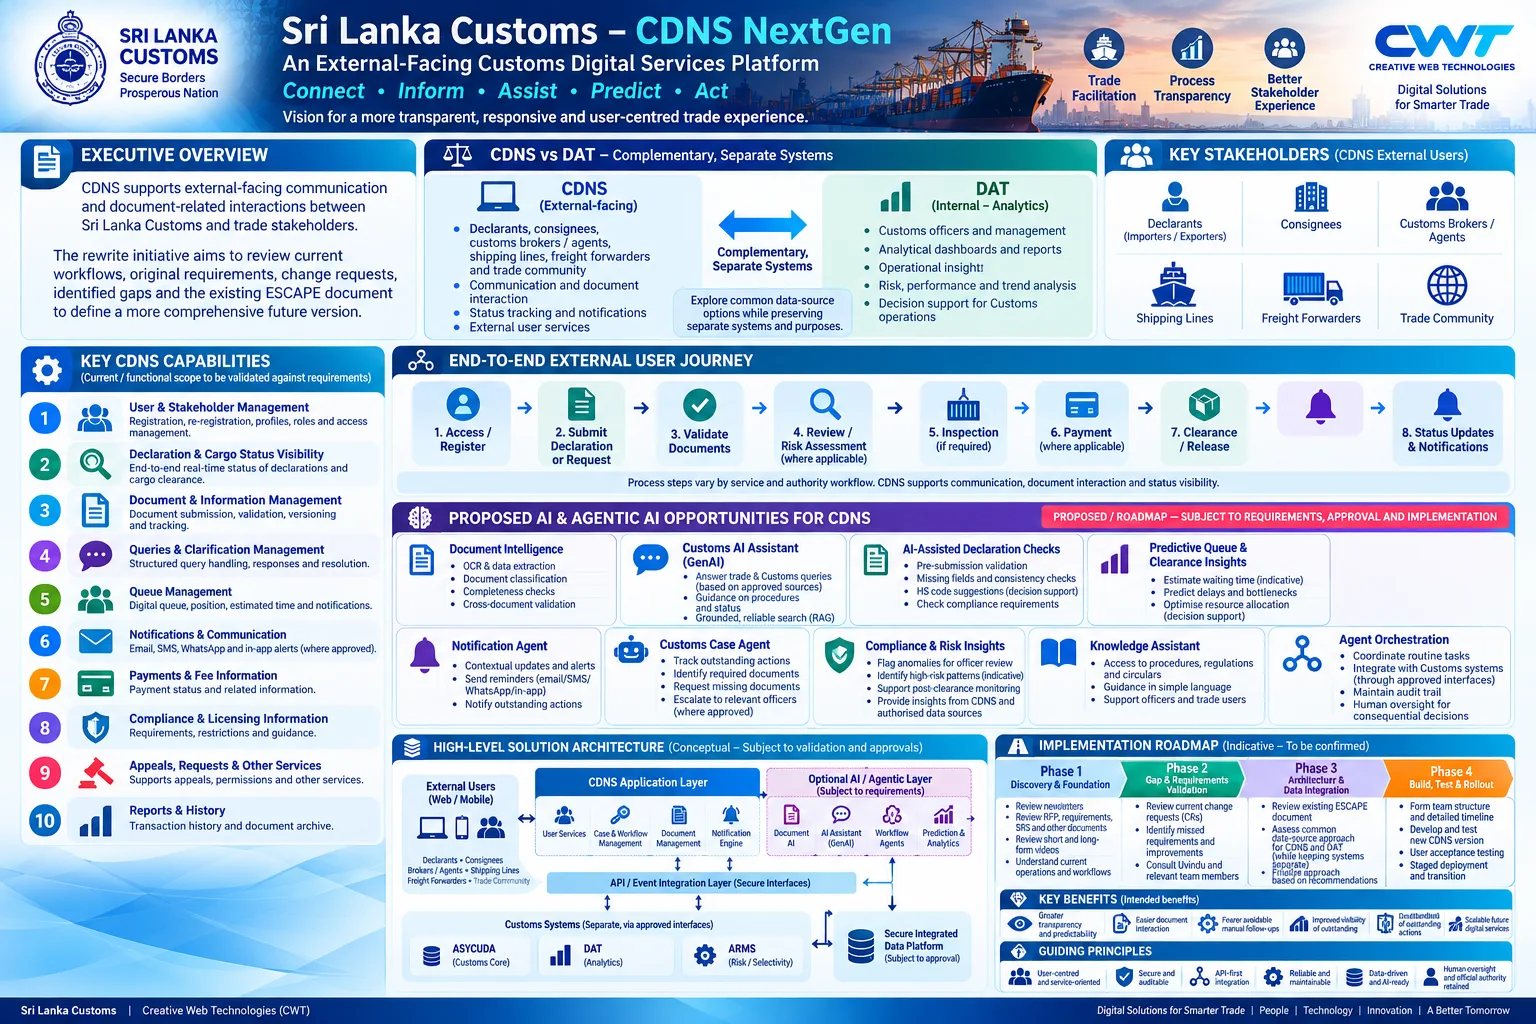
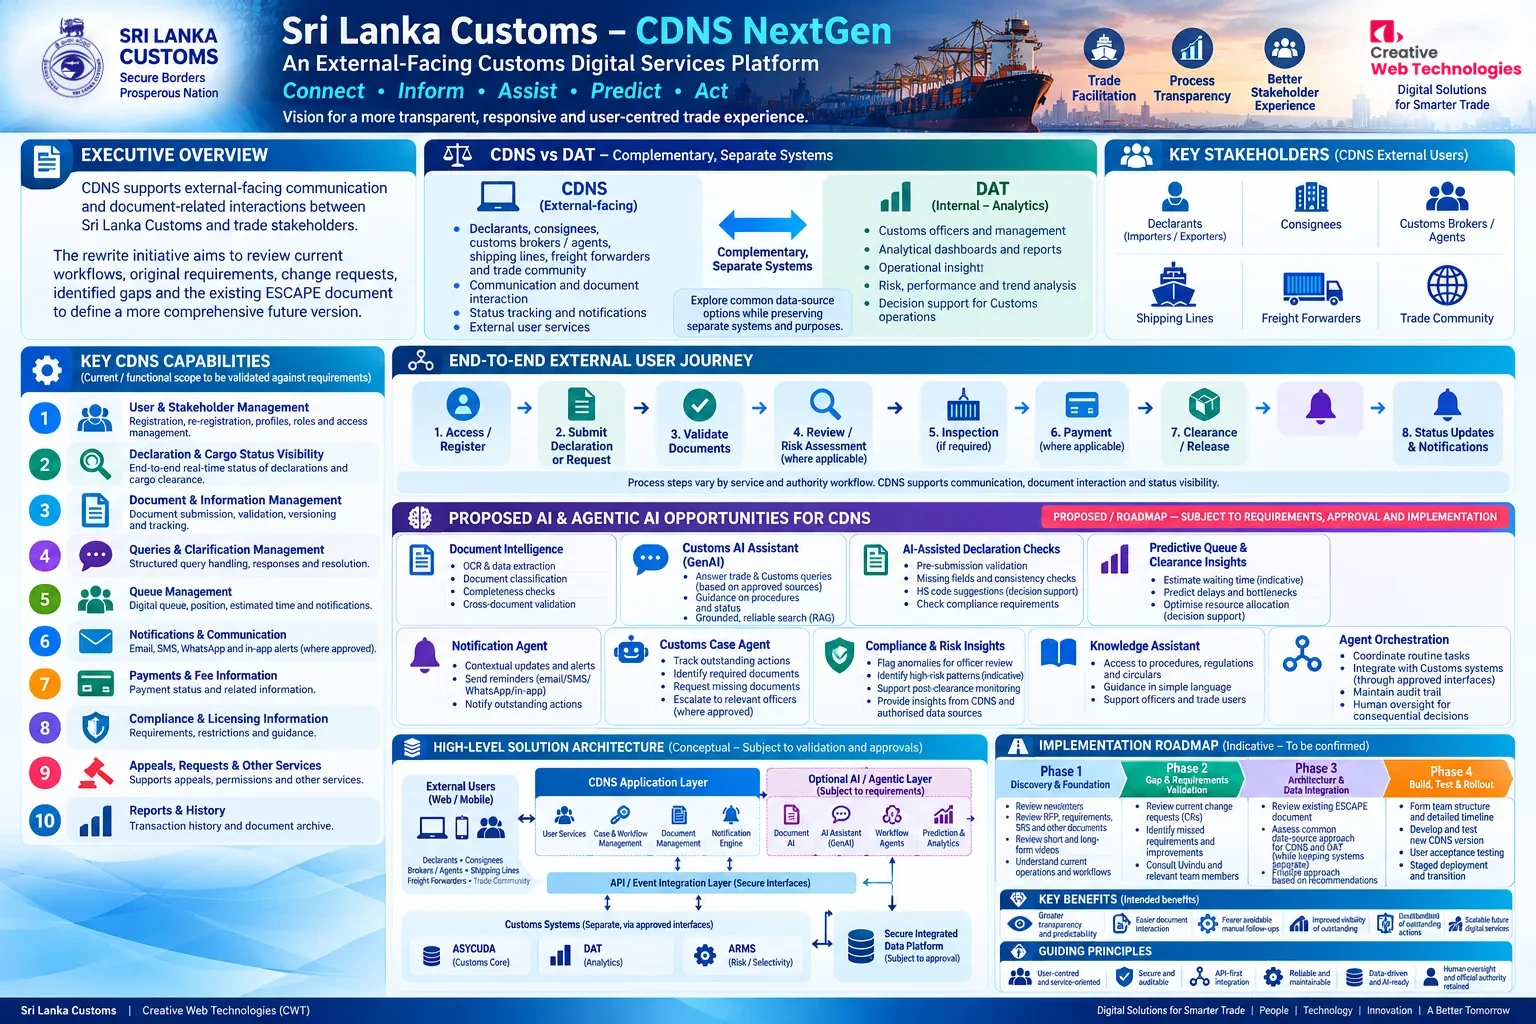
only cdns and dat remains

Changed region(s): [[0.875, 0.0, 1.0, 0.0938], [0.0, 0.0, 0.0938, 0.125]]

diff --git a/src/data/sections.ts b/src/data/sections.ts
@@ -47,15 +47,11 @@ export const sections: SectionData[] = [
     title: "CWT Customs",
     blurb: "Digital solutions built with and for Sri Lanka Customs.",
     badge: SL_CUSTOMS_LOGO,
-    cover: img("customs-01-arms.webp", "ARMS", "Automated Risk Management System", 1312, 1199),
+    cover: img("customs-02-cdns.webp", "CDNS NextGen", "Customs Declaration & Notification System", 1312, 1199),
     extras: [
-      img("customs-02-cdns.webp", "CDNS NextGen", "Customs Declaration & Notification System"),
+      
       img("customs-03-dat.webp", "DAT", "Data Analytics Tool"),
-      img("customs-04-edge.webp", "Customs Edge", "Real-time intelligence at the border"),
-      img("customs-05-risk.webp", "Risk Management", "Integrated risk-scoring framework", 1312, 1199),
-      img("customs-06-agentic-ai.webp", "Agentic AI", "AI-powered autonomous customs workflows"),
-      img("customs-07-oga.webp", "OGA / AD Licence Upgrade", "Other Government Agency & Advance Declaration"),
-      img("customs-08-roster.webp", "Operational Roster Engine", "Automated staff scheduling & roster management"),
+
     ],
   },
   {
